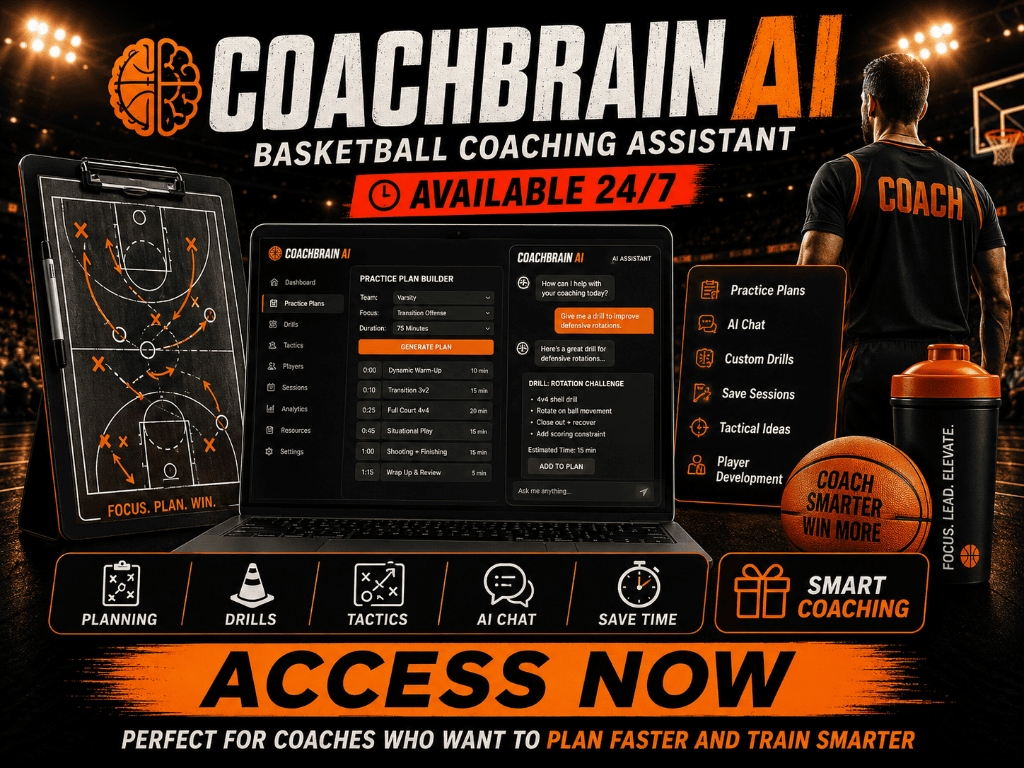
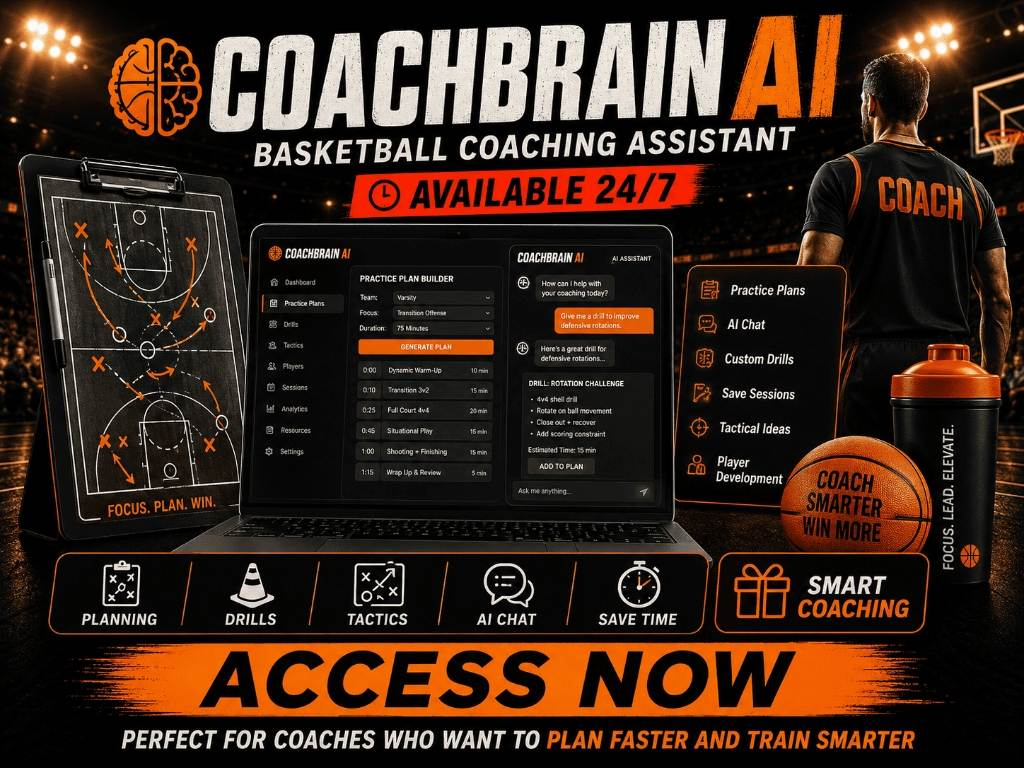
Perf - Optimize hero mockup image payload size to 142KB and fix security badges inline styles to resolve CLS

diff --git a/index.html b/index.html
@@ -34,10 +34,10 @@
     .hero-subheadline span{font-weight:700 !important;color:#e84e1b !important}
     .hero-image-container{max-width:780px !important;width:100% !important;margin:15px auto 20px !important;border-radius:12px !important;overflow:hidden !important;box-shadow:0 10px 30px rgba(0,0,0,0.15) !important;aspect-ratio:4/3 !important;background:#f1f5f9 !important}
     @media(max-width:600px){.hero-image-container{margin:10px auto 15px !important}.hero-section{padding:.65rem 1rem 1rem !important}}
-    .cta-container{display:flex;flex-direction:column;align-items:center;gap:.5rem;width:100%}
     .cta-container{display:flex !important;flex-direction:column !important;align-items:center !important;gap:.5rem !important;width:100% !important;margin-top:15px !important;margin-bottom:1.5rem !important}
     .btn-hero-cta{display:block !important;width:100% !important;max-width:280px !important;background:#22c55e !important;color:#fff !important;font-weight:800 !important;font-size:1rem !important;padding:0.9rem 1.5rem !important;border-radius:8px !important;text-decoration:none !important;text-transform:uppercase !important;letter-spacing:0.5px !important;text-align:center !important;box-shadow:0 8px 20px rgba(34, 197, 94, 0.3) !important;transition:transform 0.2s, box-shadow 0.2s !important}
-    .hero-security-badges{display:flex !important;flex-wrap:wrap !important;justify-content:center !important;gap:.4rem .75rem !important;font-size:.73rem !important;color:var(--text-secondary) !important;font-weight:600 !important;margin-top:8px !important}
+    .hero-security-badges{display:flex !important;flex-wrap:wrap !important;justify-content:center !important;gap:.4rem .75rem !important;font-size:.73rem !important;color:var(--text-secondary) !important;font-weight:600 !important;margin-top:8px !important;width:100% !important}
+    .hero-security-badges span{font-size:0.78rem !important;font-weight:700 !important;color:var(--text-secondary) !important;display:inline-flex !important;align-items:center !important;gap:0.25rem !important;letter-spacing:0.2px !important}
     
     /* Cache-bypassing Overrides for Social Proof Toasts & Hero spacing */
     .social-proof-toast {